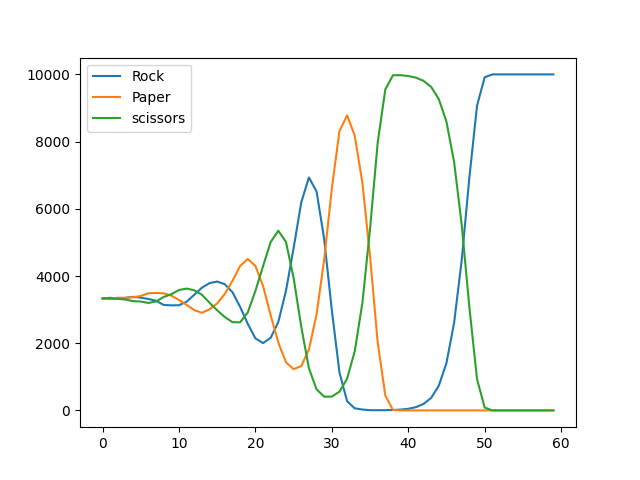
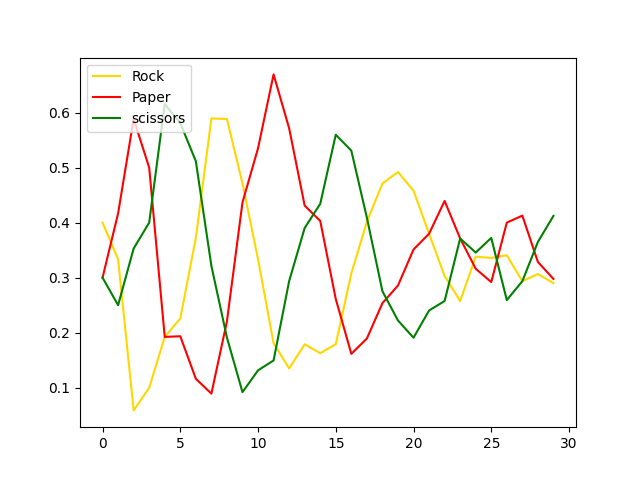
fixed Evolution.png, fixed population, added Histograms for Paper and Scissors, changed saving of count_rock, count_paper, count_scissors to be percentages

diff --git a/analyze.py b/analyze.py
@@ -8,12 +8,30 @@ def analyze(path):
     plt.title("population per day")
     plt.xlabel("Day")
     plt.ylabel("population")
-    plt.savefig("diagrams/day.png")
+    plt.savefig("diagrams/population.png")
     
     plt.cla()
     
-    plt.plot(Data["day"], Data["count_rock"], label="Rock")
-    plt.plot(Data["day"], Data["count_paper"], label="Paper")
-    plt.plot(Data["day"], Data["count_scissors"], label="scissors")
+    plt.plot(Data["day"], Data["count_rock"], label="Rock", color='gold')
+    plt.plot(Data["day"], Data["count_paper"], label="Paper", color='red')
+    plt.plot(Data["day"], Data["count_scissors"], label="scissors", color='green')
     plt.legend(loc='upper left')
     plt.savefig("diagrams/Evolution.png")
+    
+    plt.cla()
+    
+    plt.hist(Data["count_rock"])
+    plt.title("Histogram Rock")
+    plt.savefig("diagrams/Rock.png")
+    
+    plt.cla()
+    
+    plt.hist(Data["count_paper"])
+    plt.title("Histogram Paper")
+    plt.savefig("diagrams/Paper.png")
+    
+    plt.cla()
+    
+    plt.hist(Data["count_scissors"])
+    plt.title("Histogram Scissors")
+    plt.savefig("diagrams/Scissors.png")

diff --git a/main.py b/main.py
@@ -11,13 +11,17 @@ Data = pd.DataFrame(columns=['day', 'count_people', 'count_rock', 'count_paper',
 
 
 def append_data(People: list, day):
+    
+    count_rock = sum(1 for i in People if i.Group == ROCK)
+    count_paper = sum(1 for i in People if i.Group == PAPER)
+    count_scissors = sum(1 for i in People if i.Group == SCISSORS)
 
     new_data = pd.DataFrame([{
         'day': day,
         'count_people': len(People),
-        'count_rock': sum(1 for i in People if i.Group == ROCK),
-        'count_paper': sum(1 for i in People if i.Group == PAPER),
-        'count_scissors': sum(1 for i in People if i.Group == SCISSORS)
+        'count_rock': count_rock / len(People),
+        'count_paper': count_paper / len(People),
+        'count_scissors': count_scissors / len(People)
     }])
     
     global Data

diff --git a/Round.py b/Round.py
@@ -1,3 +1,4 @@
+import random as r
 import Objects
 from SETTINGS import *
 
@@ -13,7 +14,10 @@ def new_Generation(people: list[Objects.Person]):
     children = []
     for i in people:
         for j in range(i.Apples):
-            children.append(Objects.Person(i.Group, Mutation_factor=Mutation_factor, Apples=0))
+            if round(r.random(), 2) > Mutation_factor:
+                children.append(Objects.Person(i.Group, Mutation_factor=Mutation_factor, Apples=0))
+            else:
+                children.append(Objects.Person(Group=r.randint(0, 2), Mutation_factor=Mutation_factor, Apples=0))
     return children
 
 if __name__ == "__main__":

diff --git a/Objects.py b/Objects.py
@@ -10,7 +10,7 @@ class Person():
         if Guy == Enemy:
             self.Apples += 1
         elif Guy == ROCK and Enemy == SCISSORS or Guy == PAPER and Enemy == ROCK or Guy == SCISSORS and Enemy == PAPER:
-            self.Apples += 2
+            self.Apples += 3
         else:
             pass
         

diff --git a/SETTINGS.py b/SETTINGS.py
@@ -1,7 +1,7 @@
-Start_people = 10000
-Mutation_factor = 0
-Tree_count = 1000000
-Days = 60
+Start_people = 10
+Mutation_factor = 0.15
+Tree_count = 50
+Days = 30
 path_to_data = "data/table.csv"
 
 ROCK = 0
